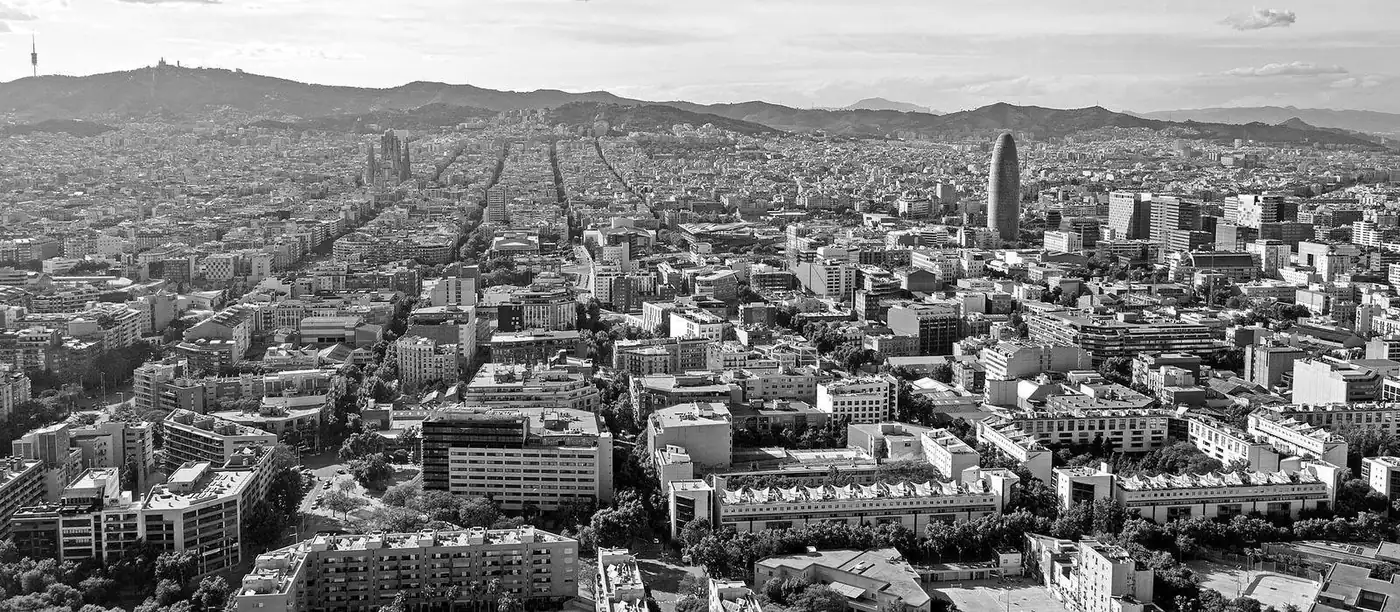
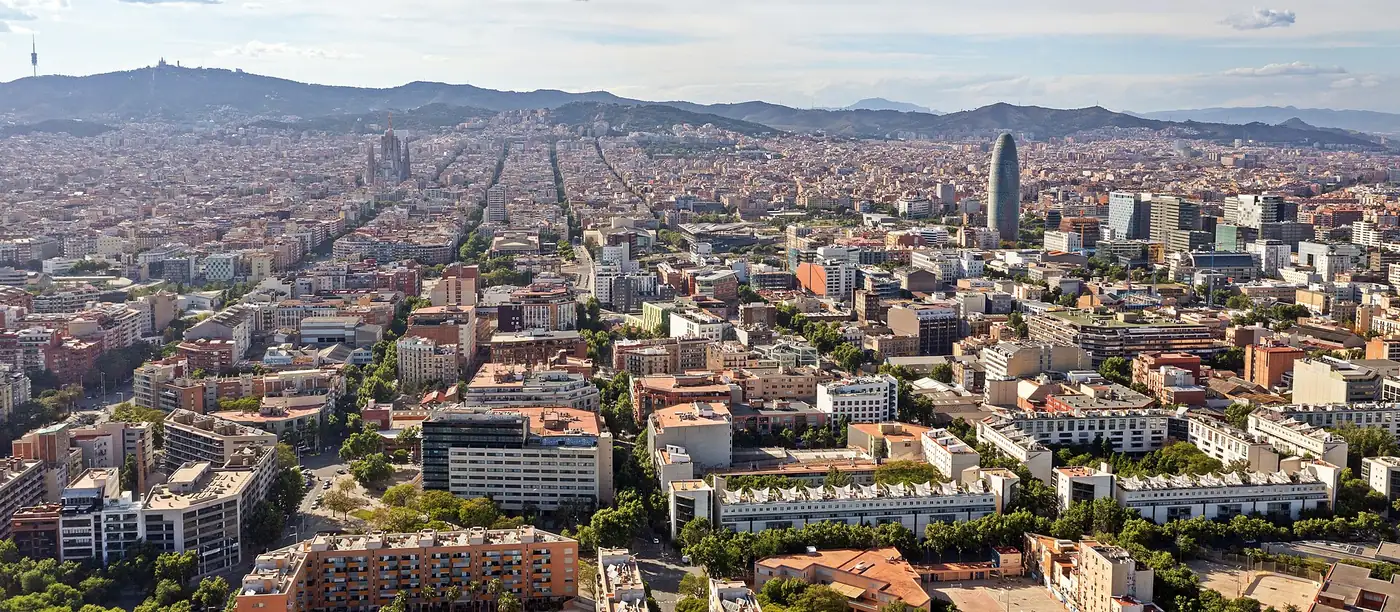
Show the photographs in colour
The greyscale treatment read as a memorial; keep the fieldwork plates and the
portrait in colour, drop the grayscale filter and the adaptation note, rebuild
the OG card in colour.

diff --git a/data.js b/data.js
@@ -241,9 +241,9 @@ const CONTACT = {
 /* ---------- Colophon ---------- */
 const COLOPHON = {
   credits: {
-    zh: "图片：马德里，格兰大道，Carlos Delgado 摄，CC BY-SA 4.0；巴塞罗那，dronepicr 摄，CC BY 2.0。两张照片均作灰度处理，版权归原作者。Kinoscholar 界面为作者截图，肖像由本人提供。",
-    en: "Images: Madrid, Gran Vía, photograph by Carlos Delgado, CC BY-SA 4.0; Barcelona, photograph by dronepicr, CC BY 2.0. Both images are shown in greyscale; rights remain with their authors. The Kinoscholar interface is the author's own screenshot; the portrait is supplied by the author.",
-    es: "Imágenes: Madrid, Gran Vía, fotografía de Carlos Delgado, CC BY-SA 4.0; Barcelona, fotografía de dronepicr, CC BY 2.0. Ambas se muestran en escala de grises; los derechos son de sus autores. La interfaz de Kinoscholar es una captura del autor; el retrato lo aporta el propio autor.",
+    zh: "图片：马德里，格兰大道，Carlos Delgado 摄，CC BY-SA 4.0；巴塞罗那，dronepicr 摄，CC BY 2.0。版权归原作者。Kinoscholar 界面为作者截图，肖像由本人提供。",
+    en: "Images: Madrid, Gran Vía, photograph by Carlos Delgado, CC BY-SA 4.0; Barcelona, photograph by dronepicr, CC BY 2.0. Rights remain with their authors. The Kinoscholar interface is the author's own screenshot; the portrait is supplied by the author.",
+    es: "Imágenes: Madrid, Gran Vía, fotografía de Carlos Delgado, CC BY-SA 4.0; Barcelona, fotografía de dronepicr, CC BY 2.0. Los derechos son de sus autores. La interfaz de Kinoscholar es una captura del autor; el retrato lo aporta el propio autor.",
   },
   type: {
     zh: "字体：拉丁字母为 Schibsted Grotesk（SIL OFL），中文标题用宋体，正文用苹方。",

diff --git a/styles.css b/styles.css
@@ -281,7 +281,6 @@ html[lang="zh"] .statement { letter-spacing: 0; line-height: 1.45; }
   object-fit: cover;
   object-position: 50% 28%;
   margin: 0.16em 0.8em 0.1em 0;
-  filter: grayscale(1);
 }
 
 .body {

diff --git a/README.md b/README.md
@@ -58,8 +58,8 @@ Node，部署后 500）。那个项目应删除，避免每次推送双构建和
 
 ## 图片版权
 
-- 马德里，格兰大道：Carlos Delgado，CC BY-SA 4.0，Wikimedia Commons（灰度处理）。
-- 巴塞罗那：dronepicr，CC BY 2.0，Wikimedia Commons（灰度处理）。
+- 马德里，格兰大道：Carlos Delgado，CC BY-SA 4.0，Wikimedia Commons。
+- 巴塞罗那：dronepicr，CC BY 2.0，Wikimedia Commons。
 - Kinoscholar 界面：作者本人截图。
 - 肖像：作者本人提供。
 

diff --git a/DESIGN.md b/DESIGN.md
@@ -50,7 +50,7 @@ grid; the red page is the only full-bleed colour field inside the body.
 
 ## Pictures
 
-Four, all documentary: the portrait (drop cap), Madrid and Barcelona (fieldwork plates, grayscale,
+Four, all documentary: the portrait (drop cap), Madrid and Barcelona (fieldwork plates, colour,
 credited under the caption), and the Kinoscholar interface (the product's own screenshot, in
 colour — the one screen on a printed page). No stock skies, no decorative images.
 
